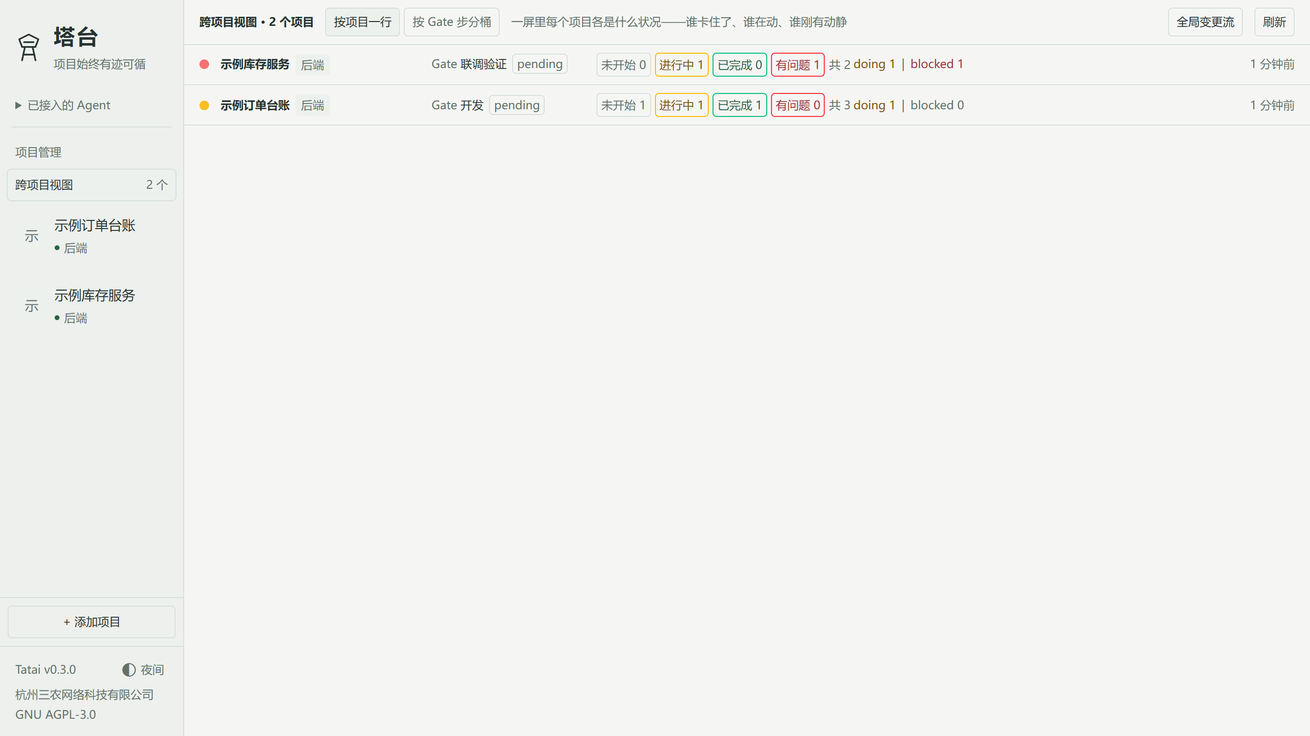
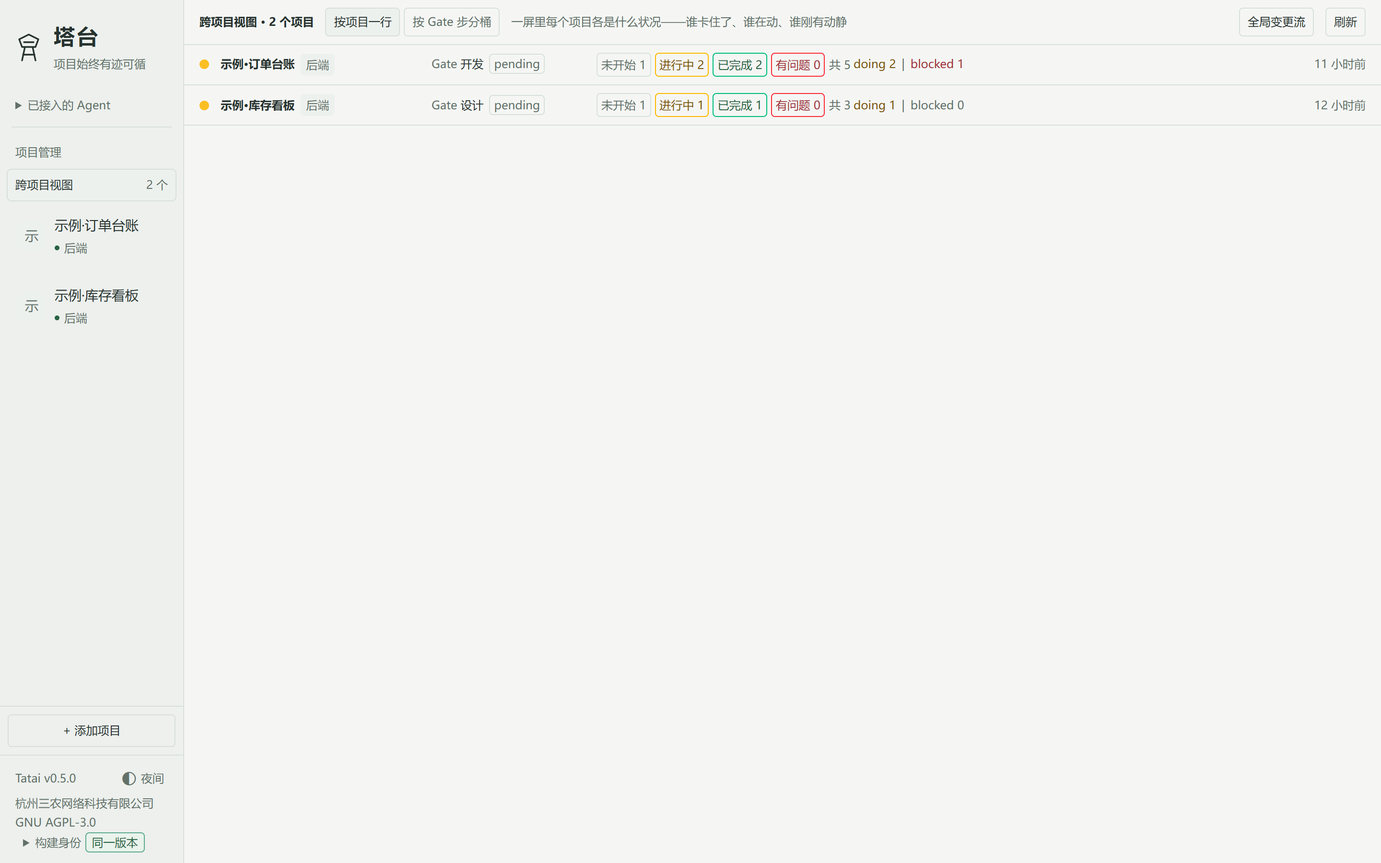
release: v0.5.0 公开文档与界面截图（运行诊断、工作区/交付候选隔离）
同步公开门面文档到 v0.5.0 口径：README、CHANGELOG、docs/capabilities、
docs/getting-started、docs/development、src-tauri/README 与
docs/releases/v0.5.0.md；并更新 4 张界面截图（2880×1800）。

仅文档与截图，无源码/配置/锁文件改动。

diff --git a/README.md b/README.md
@@ -14,35 +14,19 @@
 
 **快速导航**：[能力总览](#能力总览) ｜ [一个贯穿例子](#一个贯穿例子) ｜ [六张图分别看什么](#六张图分别看什么) ｜ [当前能力与边界](#当前能力与边界) ｜ [深入文档](#文档)
 
-## 0.4.0 更新（2026-10-09）
+## 0.5.0 更新（2026-10-13）
 
-本轮把人的**默认入口**换成**交付总览**，并补齐接续取材与提交前预检。逐条能力与如实限制见 [CHANGELOG.md](CHANGELOG.md) 的「0.4.0」条目；发布说明见 [docs/releases/v0.4.0.md](docs/releases/v0.4.0.md)。
+本轮新增**只读运行诊断页**（在**辅助入口「维护诊断」**组，不是默认入口）与**工作区／交付候选隔离**，并给接续与同步读取加了默认预算；交付总览顶部可切换读取**试用候选**或**开发中**版本。逐条能力与如实限制见 [CHANGELOG.md](CHANGELOG.md) 的「0.5.0」条目；发布说明见 [docs/releases/v0.5.0.md](docs/releases/v0.5.0.md)。
 
-- **交付总览（新默认入口）**：打开项目先看到的是**交付总览**——一页核对本期功能、需求依据、技术验证、非作者审查、未解决问题与运行版本；详细检查与证据按需展开。六图保留用于查结构与定位问题，**章节方块的颜色不再充当整项目交付结论**。只有完整功能范围核查、功能验证、独立审查与运行版本核对都具备当前有效证据，页面才显示「可以开始人工试用」；缺证据、范围未定、旧版本或读取失败会逐条点名。**技术就绪不等于你已经接受——塔台不代你签收验收。**
-- **接续更省、取材更准**：`task_brief` 紧凑简报（理由索引＋按版本补取细节，`detail=full` 保留完整）；阶段材料按任务**精确取材**（条目带 `purpose` 分类，设计引用带 `resolution`／`source_ref`，定位到**当前版本**的章节与行范围，认不出即 `unresolved`、不当已读）；同步有阻断时给**只读修复计划**。
-- **提交前只读预检**：新增 MCP `preflight_task_result`（与 `submit_task_result` 同形输入）——提交前一次列清可预判缺项与锁内未查项；**不写任何字节、不是门禁/通行票**，旧宿主明确 `unsupported`、**不回退**。
-- **功能清单（只读派生）**：设计书旁的人话功能清单与四维读数（设计覆盖／实现／验证／用户接受**分开显示**），绿只取验证读数；同一判据另有 HTTP／MCP 只读读口（`GET /api/projects/:id/feature-ledger`、MCP `feature_ledger`），**不另建第二张进度台账**。
-- **运行部件构建身份**：`GET /health`、`GET /api/work/health` 与 MCP `doctor` 读回 `build_identity`（`release_id`／`build_id`、输入指纹、偏斜对照）。**发布验收要求**：源码、随包后端、前端产物、桌面壳与安装器必须重建，并在受控安装后**实际读回**——安装运行实例报出的身份须与本次构建一致，**未安装不得写通过**。
-- **新增 3 个 MCP 工具（28 → 31）**：`task_brief`、`preflight_task_result`、`feature_ledger`。
-- **旧 MCP 连接需重连**：升级到 v0.4.0 后，要让**当前会话**用上新的接续逻辑与新增工具，需重连塔台 MCP；新启动的连接使用已更新的 `server/mcp.js`。
-- **如实限制**：本轮的**正式安装与人的可用性验收尚未进行**（token 对照未测）；下面 0.3.0 段的能力与实测限制仍然有效。
+- **运行诊断（只读）**：辅助入口「维护诊断」新增**只读运行诊断页**，用大白话看服务、队列、近期故障与实测耗时，缺项如实标「没测到」，可导出**脱敏报告**；主工作面只在有可行动异常时给一条提示。页面可见时每约 5 秒轻量监看，连接失败只做有上限的只读重连。**只读**：不自动重启服务、不改项目。Agent 用既有 `doctor` 的 `runtime` 段读同一份读数，**不新增工具名**。
+- **接续与同步读取默认 10 秒预算**：接续入口与同步只读读口默认 **10 秒**预算，读失败报明确原因、**不回退本地重算**，同一请求内共享账本快照、减少重复读盘。**如实限制**：开发版单笔接续仍约 **7.5 秒**；三笔重接续并发曾一次超 10 秒，尚未修复，**不宣称性能已全面解决**。
+- **工作区与交付候选隔离、本地 Git 收尾**：新增 MCP `manage_workspace`（统一管理项目工作目录与交付候选，`read`／`list` 只读、其余经唯一写口）与 `finalize_local_commit`（技术验证与独立审查通过后，把本次受验内容做**本地提交**，内容等于受验输入、不空提交、**不 `push`**、不代签接受）；交付总览顶部可切换读取**试用候选**或**开发中**版本。工具面 **31 → 33**。
+- **旧 MCP 连接需重连**：升级到 v0.5.0 后，要让**当前会话**用上新的接续逻辑与新增工具，需重连塔台 MCP；新启动的连接使用配置路径下已更新的 `server/mcp.js`。
+- **如实限制**：本版对本次公开安装包做的是**完整载荷解包 ＋ 隔离实跑**（解出包内 65 个文件，用隔离数据目录与随机端口实跑包内桌面壳、后端与 `server/mcp.js`），**不是运行安装器安装**。运行时身份 `release_id=3e663776…` 在 `/health`、MCP `doctor` 与界面身份面板三处一致（`same_release`），MCP 工具面 33（运行时断言 18/18 通过）、界面检查 17/17 通过。**这不是整体产品验收**，**用户验收（Gate）尚未进行**，结果以对应 Release 页为准。0.4.0 及更早版本的能力与实测限制见 [CHANGELOG.md](CHANGELOG.md)。
 
-## 未发布（main 源码已包含，尚未随安装包发布）
+## 历史更新
 
-> **最新正式 Release 仍是 [0.4.0](https://github.com/sannongwangluo/tatai/releases/latest)**。以下能力已进入 `main` 源码、**尚未随安装包公开发布**；作者已在本机按该源码构建、实际安装并读回运行版本核对，**用户验收尚未进行**。安装包版本以 Releases 为准，逐条限制见 [CHANGELOG.md](CHANGELOG.md) 的「未发布」条目。
-
-- **运行诊断**：辅助入口「维护诊断」新增只读运行诊断页，用大白话看服务、队列、近期故障与实测耗时，缺项如实标「没测到」，可导出**脱敏报告**；主工作面只在有可行动异常时给一条提示。页面可见时每约 5 秒轻量监看，连接失败只做有上限的只读重连。**只读**：不自动重启服务、不改项目。Agent 用既有 `doctor` 的 `runtime` 段读取，不新增工具名。
-- **接续与同步读取更稳**：接续入口与同步读取默认 **10 秒**预算，读失败报明确原因、不回退本地重算，减少重复读盘。如实限制：单笔接续仍约 7.5 秒，三笔重接续并发曾一次超时，尚未修复。
-- **工作区与交付候选隔离、本地 Git 收尾**：新增 MCP `manage_workspace`（统一管理项目工作目录与交付候选）与 `finalize_local_commit`（把受验内容本地提交，不 `push`、不代签验收）；交付总览顶部可切换读取试用候选或开发中版本。工具面 **31 → 33**。
-
-## 0.3.0 更新（2026-10-04）
-
-本轮统一了界面与品牌，把「接续」主链路提速，并补上按需取料。逐条问题、修复、实测限制与界面变化见 [CHANGELOG.md](CHANGELOG.md) 的「0.3.0」条目；发布说明见 [docs/releases/v0.3.0.md](docs/releases/v0.3.0.md)。
-
-- **界面与品牌统一**：采用线条小塔台作为唯一标志（界面标志、网页图标、EXE／安装包与桌面快捷方式同源生成）；默认**浅色**、左下角可切**夜间**并**本机记住**；项目图**先讲用途、关联和当前情况**，来源与技术详情按需展开，缺少的理由明确写「尚未记录」、不编造；选中方块可把对象与来源**带入可编辑聊天草稿**，由你确认后发送。保留**五主导航**与**六图**。
-- **按需接续与统一提速**：取接续时一次请求内共享同一份账本快照（不再重复读盘、不跨请求缓存旧绿）；只读重计算移到进程内有界工作池；文件读取做**内容校验 + 前缀增量**，不拿 size/mtime 当身份；界面合并同条件在途请求、切项目真正取消旧请求。实测中位改善与一项如实列出的变慢见更新日志。
-- **新增 6 个 MCP 工具（22 → 28）**：`report_execution`、`record_work_evidence`、`manage_baseline`（2026-10-02）与 `read_plan`（按卡／章节／行范围取施工图原文，免整本读取）、`expand_module`（深层结构下钻）、`project_index`（持久项目说明索引，需 Agent 维护，**不自动扫描全仓生成**）（2026-10-03）。
-- **旧 MCP 连接需重连**：升级到 v0.3.0 后，要让**当前会话**用上新的接续逻辑与新增工具，需重连塔台 MCP；新启动的连接使用已更新的 `server/mcp.js`。
+0.4.0（2026-10-09，交付总览与接续取材）与 0.3.0（2026-10-04，界面与品牌统一、统一提速）及更早版本的变化，见 [CHANGELOG.md](CHANGELOG.md) 与逐版本发布说明（[v0.4.0](docs/releases/v0.4.0.md)、[v0.3.0](docs/releases/v0.3.0.md)、[docs/releases/](docs/releases/)）。
 
 ## 它解决什么问题
 
@@ -100,13 +84,17 @@
 
 ## 界面一览
 
-下图为当前界面（**默认浅色**，左下角可切换**夜间**）：项目图先讲用途与当前情况，来源与技术详情按需展开、技术详情离线解析可下钻。
+下图为**当前界面**（**默认浅色**，左下角可切换**夜间**）：打开项目先看到**交付总览**，运行状态可在「维护诊断」的**运行诊断**页按需展开；项目图先讲用途与当前情况，来源与技术详情按需展开、技术详情离线解析可下钻。
+
+| 交付总览：一页核对本期功能、验证与运行版本 | 运行诊断：服务、队列、近期故障与实测耗时 |
+| --- | --- |
+| ![交付总览](docs/screenshots/03-delivery-overview.png) | ![运行诊断](docs/screenshots/04-runtime-diagnostics.png) |
 
 | 跨项目视图：一屏看清每个项目卡在哪 | 技术详情·模块方框图：离线静态解析，可下钻 |
 | --- | --- |
 | ![跨项目视图](docs/screenshots/01-cross-project-view.png) | ![模块方框图](docs/screenshots/02-module-map.png) |
 
-> 截图为**虚构示例项目**（界面数据来自隔离的临时夹具目录与临时数据目录，无任何真实项目数据）。
+> 截图为**虚构示例项目**：界面数据来自隔离的临时夹具目录与临时数据目录，**无任何真实项目数据**。其中**交付总览（03）的功能清单读数为用于演示的示例（替身）响应**；**跨项目视图（01）、模块方框图（02）、运行诊断（04）为隔离环境下的真实运行读数**。截图仅用于展示界面，**不构成生产验收**。
 
 ## 下载与安装（Windows）
 
@@ -121,9 +109,9 @@
 ### 升级
 
 - 塔台没有自动更新：装新版就是从 Releases 下一个新包覆盖安装。覆盖安装与卸载都不删用户数据（数据不在安装目录里，安装目录运行期只读）。
-- 升级前请正常退出塔台（关闭窗口即会带走它启动的后端并释放 8787 端口）；若安装器仍提示进程占用，再按排错确认残留，不要无差别结束 node 进程。
+- 升级前请**正常退出**塔台。正常关窗通常会回收它启动的后端并释放 8787 端口，但**桌面壳进程本身可能滞留不退**（本版隔离实测：后端已回收、端口已释放，壳窗口 15 秒内未退出），请以实际状态为准。若安装器仍提示进程占用，先按排错确认是否有残留，再确认后处理；**不要无差别结束 node 进程**（别的 Agent 客户端可能正用着它），若需强制处理只结束该滞留壳及其自有后端子树。
 - 升级前建议先备份两处：全局数据目录（`~/.tatai` 或你的 `TATAI_HOME`）与每个被纳管项目根下的 `.工作台/`。
-- 本次升级的安装与数据保留实测状态，以对应 Release 说明为准（不预填未生成的哈希）。
+- 本次升级的安装与数据保留实测状态，以对应 Release 说明为准。
 
 ## 第一次使用
 
@@ -137,9 +125,9 @@
 
 ## 让 Agent 接进来（MCP）
 
-以下 31 个工具对应当前 v0.4.0。
+以下 33 个工具对应当前 v0.5.0。
 
-- 31 个 stdio MCP 工具：项目接续（`list_projects`／`select_project`／`project_entry`／`task_brief`／`doctor`）、任务与进度、认领与回执（含**只读预检** `preflight_task_result`）、设计书与图纸、施工图与结构（`read_plan`／`expand_module`／`project_index`）、需求／变更、同步证据对账（`register_sync_contract`／`scan_sync_evidence`／`read_sync_status`）、功能清单（`feature_ledger`）等。计数以 `src/mcp/tools/index.ts` 的注册表为唯一来源（`pnpm verify:v09-05` 对账，文档计数与注册表恒等）；完整清单见 [docs/capabilities.md](docs/capabilities.md)。
+- 33 个 stdio MCP 工具：项目接续（`list_projects`／`select_project`／`project_entry`／`task_brief`／`doctor`）、任务与进度、认领与回执（含**只读预检** `preflight_task_result`）、设计书与图纸、施工图与结构（`read_plan`／`expand_module`／`project_index`）、需求／变更、同步证据对账（`register_sync_contract`／`scan_sync_evidence`／`read_sync_status`）、功能清单（`feature_ledger`）、工作区与交付候选（`manage_workspace`）、本地 Git 收尾（`finalize_local_commit`）等。计数以 `src/mcp/tools/index.ts` 的注册表为唯一来源（`pnpm verify:v09-05` 对账，文档计数与注册表恒等）；完整清单见 [docs/capabilities.md](docs/capabilities.md)。
 - **已经运行中的 MCP 连接保留旧内存代码**：更新程序后，要让**当前会话**用上新的接续逻辑与新增工具，需重连塔台 MCP；新启动的连接使用配置路径下已更新的 `server/mcp.js`。
 - 桌面壳装好后，MCP 入口就是安装目录下的 `server/mcp.js`，例如 `C:/Users/<用户名>/AppData/Local/Tatai/server/mcp.js`。`%LOCALAPPDATA%` 这类变量不会被自动展开，配置里必须写实际绝对路径。
 - 从源码跑时先 `pnpm build:server`，再用产物的绝对路径；不要依赖 `node --import tsx …` 这种要客户端 cwd 才解析得开的写法。完整示例见 [docs/getting-started.md](docs/getting-started.md) 第 5 节与 [docs/agent-integration.md](docs/agent-integration.md)。
@@ -156,7 +144,7 @@
 
 ## 当前能力与边界
 
-**已经能用**：项目登记与跨项目概览；**浅色／夜间两套外观**（本机记住）与线条小塔台品牌，选中方块可把对象与来源带入可编辑聊天草稿；人工确认的七步 Gate 与 Agent 自报任务；六图（功能全景／系统架构／施工依赖／模块方框图／数据流向图／思维导图）与下钻；设计书展示与追加落稿；**施工图按卡/章节/行范围原读取材**（`read_plan`）与**深层结构下钻**（`expand_module`）；**持久项目说明索引**（`project_index`，职责/接口/来源/关系/影响覆盖，声明关系不冒充验证事实）；内置 AI 聊天；任务认领与执行回执；**私有事实**（`.工作台/`）的显式**备份**与**隔离目录**恢复——恢复只落在隔离目录并逐项核验，塔台**不会自动替换**你当前的数据；MCP 接续入口。
+**已经能用**：项目登记与跨项目概览；**浅色／夜间两套外观**（本机记住）与线条小塔台品牌，选中方块可把对象与来源带入可编辑聊天草稿；人工确认的七步 Gate 与 Agent 自报任务；六图（功能全景／系统架构／施工依赖／模块方框图／数据流向图／思维导图）与下钻；设计书展示与追加落稿；**施工图按卡/章节/行范围原读取材**（`read_plan`）与**深层结构下钻**（`expand_module`）；**持久项目说明索引**（`project_index`，职责/接口/来源/关系/影响覆盖，声明关系不冒充验证事实）；内置 AI 聊天；任务认领与执行回执；**私有事实**（`.工作台/`）的显式**备份**与**隔离目录**恢复——恢复只落在隔离目录并逐项核验，塔台**不会自动替换**你当前的数据；MCP 接续入口；**只读运行诊断页**（服务/队列/近期故障/实测耗时，缺项标「没测到」，可导出**脱敏报告**）与**工作区／交付候选隔离**（`manage_workspace` 管理项目工作目录与候选，`finalize_local_commit` 受验内容本地提交、不 `push`；交付总览可切换读**试用候选**或**开发中**版本）。
 
 **统一优化（2026-10-03，随 v0.3.0 发布）**：**按需接续与缓存 worker**——接续入口在一次请求内共享同一份账本快照与派生事实（不再重复读盘、不跨请求缓存旧绿）；只读重计算挪到**进程内有界工作线程池**（含**内容校验的解析缓存**），唯一写入宿主承担写；文件读取做**内容校验 + 前缀增量**（同长度改写/保留 mtime/截断/中段坏行均能识别，不拿 size/mtime 当身份）；界面**合并同条件在途只读请求、切项目真正取消旧请求**，并显示明确新鲜度与失败原因。**已经运行中的 MCP 连接保留旧内存代码，需重连才生效**（见上一节）。
 
@@ -169,6 +157,7 @@
 - 认领 token 与角色声明不是文件系统锁，读到材料也不等于模型理解；目录隔离与进程终止仍由协调器负责。
 - 同步对账只就**已登记范围**下结论，只有配置了 `blocks_entry` 的未通过批次才阻断接续；同步通过不代表业务实现、独立审计或你的验收。
 - 取齐六图不代表读遍全部源码，也不代表业务验收。
+- 性能未全面解决：开发版单笔接续仍约 **7.5 秒**、三笔重接续并发曾一次超 10 秒（原样保留）；**不承诺普适的快速响应**。
 - 安装包只出 Windows；WebView2 与 node 不随包；远程访问默认关闭、不提供“允许公网”开关；没有自动更新。
 
 逐条能力、六图与数据流向图口径、远程访问细节、AI 与隐私边界、已知限制见 [docs/capabilities.md](docs/capabilities.md)。
@@ -188,8 +177,8 @@
 | [docs/capabilities.md](docs/capabilities.md) | 当前能力、六图口径、AI 与隐私边界、远程访问、已知限制 |
 | [docs/agent-integration.md](docs/agent-integration.md) | 外部执行接入：谁启动/终止 Agent 进程、认领与回执协议、MCP 读口的同源边界 |
 | [docs/sync-evidence-contract.md](docs/sync-evidence-contract.md) | 同步证据对账契约：登记「应同步清单」、逐项实读核对、阻断与自动解阻 |
-| [CHANGELOG.md](CHANGELOG.md) | 版本变更记录（当前 0.4.0，2026-10-09） |
-| [docs/releases/](docs/releases/) | 逐版本发布说明（当前 [v0.4.0](docs/releases/v0.4.0.md)） |
+| [CHANGELOG.md](CHANGELOG.md) | 版本变更记录（当前 0.5.0，2026-10-13） |
+| [docs/releases/](docs/releases/) | 逐版本发布说明（当前 [v0.5.0](docs/releases/v0.5.0.md)） |
 | [GitHub Releases](https://github.com/sannongwangluo/tatai/releases) | 发布说明与安装包；产品版本口径以此为准 |
 | `DESIGN.md` / `PLAN.md` / `PROGRESS.md` | 设计依据 / 施工图与验收标准 DoD / 施工流水 |
 | [CONTRIBUTING.md](CONTRIBUTING.md)、[SECURITY.md](SECURITY.md) | 如何反馈问题与提交改动；安全漏洞的私密报告渠道 |

diff --git a/docs/releases/v0.5.0.md b/docs/releases/v0.5.0.md
@@ -1,0 +1,98 @@
+# 塔台（Tatai）v0.5.0 —— 发布说明（2026-10-13）
+
+> 本页是 v0.5.0 的发布说明。**公开发布的安装包体积与 sha256** 见下方「发布资产」表，与 [Releases](https://github.com/sannongwangluo/tatai/releases/tag/v0.5.0) 对应页一致；本页的**运行时身份读回**来自对公开包的**载荷解包 ＋ 隔离实跑**（**未运行安装器**）；**安装器流程与 CI 记录**以该 Release 页登记的实测记录为准。
+>
+> 面向用户的变化见 [`../../CHANGELOG.md`](../../CHANGELOG.md)。
+
+塔台 v0.5.0（2026-10-13）—— **运行诊断与工作区／交付候选隔离版**。**相比 v0.4.0 有功能性新增、接口面变化；界面结构与数据格式向后兼容。**
+
+## 新增了什么（以下均已交付代码与服务）
+
+### 1. 运行诊断页与运行健康只读读口（V09-69、V09-70）
+
+- 辅助入口「维护诊断」组新增**只读运行诊断页**：用大白话看服务、队列、近期故障与实测耗时，缺项如实标「没测到」、不编数，可导出**脱敏报告**；主工作面只在有可行动异常时给**一条**运行提示。
+- 页面可见时**每约 5 秒**轻量监看，连接失败只做**有上限的只读重连**（成功即停本轮重试、恢复正常监看），切项目中止旧回包。
+- **只读**：不自动重启后端、不拉起写服务、不改代码/账本、不放松门禁，导出与「重试」同样只读。读失败语义如实——超时不等于服务已死，失败把当前状态落「未知」、**不用上一次的绿代替**。
+- Agent 侧**不新增工具名**：既有 `doctor` 默认附 `runtime` 段（读宿主同一只读读口、不本地重算），`runtime_only:true` 只取轻量运行诊断，不启动服务、不触发自愈。运行健康与交付验收**分开**。
+
+### 2. 接续与同步读取默认 10 秒预算（V09-37 返工收敛）
+
+- 接续入口与同步只读读口默认 **10 秒**预算；同一请求内共享同一份账本快照与派生事实、减少重复读盘，文件观测收敛到逐清单剩余预算内。
+- 对成功但非法／不完整的响应报明确读失败、**不回退本地重算**。
+- **如实限制**：这是预算与去重，不是「性能全面解决」——开发版单笔接续仍约 **7.5 秒**、稳定 p95 未证明；三笔重接续并发曾出现一次 10 秒超时，该失败**原样保留**，不能把单笔场景通过说成并发已修复。
+
+### 3. 工作区与交付候选隔离、本地 Git 收尾（V09-63…V09-67）
+
+- 新增 MCP `manage_workspace`：项目工作目录与交付候选的**统一入口**（`read`／`list` 只读，其余操作经唯一写口；主开发目录由 `<project>:main` 派生、不重复保存）。写口语义上拒绝错目标与对冻结候选的改写（**语义校验，不冒充 OS 沙箱**）。同一判据 HTTP 读口：`GET /api/projects/:id/workspaces`。
+- 交付候选可**冻结并绑定构建输入身份**（复用 §6.10 的能力，不另算），试用提升由宿主**实测真实产物**后判定；回收后能从提交/既有保管处还原的不判失效。
+- 新增 MCP `finalize_local_commit`：技术验证与独立审查通过、且持有有效任务授权时，由**唯一宿主**把**本次受验内容**做**本地提交**——内容等于受验输入、不空提交、**不 `push`**、不代签用户接受。请求**不得自带**授权/通过布尔。
+
+### 4. 交付总览的版本一致与集成/审查读数（V09-62 扩展、V09-68）
+
+- 交付总览顶部可切换「读哪个版本」：**当前试用候选**或**开发中**；本批受影响证据可按候选版本续验。
+- `feature_ledger.delivery`（含 `integration` 组合流程验证）与逐项 `agent_review` 为**同源只读扩展**；旧宿主缺字段应报未知，不拿其它绿状态代替，**不新增完成台账**。
+- 实现读数修正：缺登记与部分提交**不误报**「未实现／未开始」。
+
+## 变更
+
+- **MCP 工具面 31 → 33**：本版新增 `manage_workspace`（V09-63）、`finalize_local_commit`（V09-66）。计数以 `src/mcp/tools/index.ts` 注册表为唯一来源（`pnpm verify:v09-05` 对账，文档计数与注册表恒等）。
+- **旧 MCP 连接需重连**：升级到 v0.5.0 后，要让**当前会话**用上新的接续逻辑与新增工具，需重连塔台 MCP；新启动的连接使用已更新的 `server/mcp.js`，运行中的旧 MCP 进程保留旧内存代码。
+
+## 发布资产（Windows x64）
+
+- **源码身份**：公开仓 `sannongwangluo/tatai` 源码 **HEAD `0f4a8e95`**（2026-10-13 公开源码快照）。随后仅追加文档与截图提交，**不进入构建输入、不改变构建身份**。
[1 lines of base64/hex data omitted]
+- 两枚安装包的体积与 sha256（与 Release 页登记的资产一致，可下载后自行复核）：
+
+| 资产 | 字节数 | SHA256 | 直链 |
+| --- | ---: | --- | --- |
[2 lines of base64/hex data omitted]
+
+- 两枚安装包内 `server/THIRD-PARTY-NOTICES.txt`（9,660 B，`sha256 a0854a8f…`）含「塔台自身许可：GNU AGPL-3.0」；两包均已解包核对（NSIS 载荷 65 文件、MSI 载荷 59 文件，包内主 exe `FileVersion`/`ProductVersion` 均为 `0.5.0`）。
+
+## 安装（Windows x64）
+
+前置条件与三步安装、两种安装包的差异、升级与卸载注意事项，见 [`../getting-started.md`](../getting-started.md)。
+
+- 安装包命名沿用 `Tatai_<版本>_x64-setup.exe`（NSIS，推荐）与 `Tatai_<版本>_x64_en-US.msi`（MSI）；v0.5.0 对应 `Tatai_0.5.0_x64-setup.exe` 与 `Tatai_0.5.0_x64_en-US.msi`，体积与 sha256 见上「发布资产」，与 Release 页登记的资产一致。
+
+## 升级建议（从旧版覆盖安装）
+
+- 装新版＝从 [Releases](https://github.com/sannongwangluo/tatai/releases) 下一个新包**覆盖安装**，没有自动更新。
+- **升级前先正常退出塔台**：正常关窗通常会回收它启动的后端并释放 8787 端口，但**桌面壳进程本身可能滞留不退**（本版隔离实测：后端已回收、端口已释放，壳窗口 15 秒内未退出），请以**实际状态**为准。若安装器仍提示进程占用，先核实是否有残留（或该端口被别的进程占着），确认后再继续，**不要无差别结束 node 进程**（别的 Agent 客户端可能正用着它）；若需强制处理，只结束该滞留壳及其自有后端子树（不误杀其他 Agent 客户端，已核实）。
+- **升级前建议先备份两处**：全局数据目录（`~/.tatai` 或你的 `TATAI_HOME`）与每个被纳管项目根下的 `.工作台/`。覆盖安装与卸载都**不删用户数据**（数据不在安装目录里，安装目录运行期只读）。
+- **旧 MCP 连接需重连**（见上「变更」）：升级后当前会话要用上新工具，需重连塔台 MCP。
+- 本版**未变更锁文件**（`pnpm-lock.yaml` 未动）。
+
+## 本版源码与安装包的对应关系（核验记录）
+
+- **源码内容**：本版对应公开仓 **HEAD `0f4a8e95`** 的源码快照（本次发布前冻结、经导出规程同步到公开仓）；其后的文档／截图提交**不进入构建输入**，不改变构建身份。公开仓提交／tag 以该 Release 页登记为准。
+- 构建戳的源码内容指纹与文件数、两枚安装包的 sha256 与体积见上「发布资产」。
+- **公开包运行时身份读回（如实）**：对本次公开安装包（NSIS）做**完整载荷解包**（65 个文件、运行期只读自校验一致），在**隔离数据目录与随机端口**下**实跑包内桌面壳、后端与 `server/mcp.js`**（**未运行安装器**）：`/health`、MCP `doctor(runtime_only)` 与真实界面身份面板三处的 `release_id` 一致为 `3e663776…`、偏斜 `same_release`；MCP 工具面 33（运行时断言 18/18 通过）、界面检查 17/17 通过；全程未动生产实例与真实数据目录。**这只证明公开包载荷的运行时身份与基本读取，不等于运行过安装器、也不等于整体产品验收。**
+
+## 版本口径
+
+版本串（`package.json` / `src-tauri/tauri.conf.json` / `src-tauri/Cargo.toml` / `src-tauri/Cargo.lock` 根包 / MCP 握手 / 界面页脚）本版统一为 **0.5.0**；运行时版本取自单一来源 `src/shared/version.ts`（构建期内联，产物运行时不读文件），各处一致性由 `scripts/verify-version-consistency.ts` 对账。
+
+## 尚未实际验证的事项（如实列出）
+
+- **用户验收（Gate）尚未进行**：本版**功能候选**已完成 **20/20 技术验证**与 **20/20 非作者独立审查**（交付读数 `delivery=ready_for_trial`）。**用户本人的接受 Gate 仍待签**，这是产品侧步骤，**不属发布阻断项**。
+- **本轮未运行安装器**：完成的是公开包的**载荷解包 ＋ 隔离实跑 ＋ 身份读回**（见「核验记录」），**未安装、未改本机试用指针**；安装器流程与未来 CI 以对应 Release 页登记为准。
+- **界面、候选代码的技术验证以源码与隔离夹具为准**；完整 token 对照按「未测」登记，人的体验验收未做。
+- **性能未全面解决**：单笔接续仍约 **7.5 秒**、稳定 p95 未证明；三笔重接续并发曾一次 10 秒超时（原样保留）。**桌面壳正常关闭后壳进程本身可能滞留不退**（本版隔离实测：后端已回收、端口已释放，壳 15 秒内未退出），**未宣称已修复**。
+- **提交执行结果 ≠ 独立审计通过 ≠ 用户验收**：`PLAN.md` 卡行为文档投影，工程运行事实以 v2 事件账本为准。
+
+## 从源码构建
+
+```
+pnpm install
+pnpm build:server
+pnpm tauri:build   # 产物在 src-tauri/target/release/bundle/
+```
+
+完整开发口径见 [`../development.md`](../development.md) 与 [`../../src-tauri/README.md`](../../src-tauri/README.md)。
+
+---
+
+License：GNU AGPL-3.0（可自由使用、修改与分发；衍生作品与基于它提供的网络服务须以同协议开源）· Copyright (c) 2026 杭州三农网络科技有限公司

diff --git a/docs/capabilities.md b/docs/capabilities.md
@@ -19,9 +19,9 @@
 - **证据分段失效**：改一份文档只重验受影响的对象（单卡／章节粒度），不再"动一行、全图重验"。
 - 设计书展示与显式追加落稿、内置 AI 项目聊天（模型服务可配置）、概念图补全、逆向设计草稿。
 - 流程实况、文件变更、终端与 Tauri 桌面壳。终端仍在当前软件中，已移出用户主导航、收进辅助入口的「维护诊断」。
-- **运行诊断（新增）**：辅助入口「维护诊断」组新增**只读运行诊断页**（与终端并列、不抢主导航），用大白话看服务、队列、近期故障与实测耗时，缺项如实写「没测到」、不编数，可导出**脱敏报告**；主工作面只在有可行动异常时显示一条运行提示。页面可见时每约 5 秒轻量监看，连接失败只做有上限的只读重连。**运行健康与交付验收分开**；**只读**：不自动重启后端、不拉起写服务、不改代码/账本、不放松门禁，导出与「重试」同样只读。读失败语义如实：超时不等于服务已死，读失败把当前状态落「未知」、不用上一次的绿代替。Agent 侧**不新增工具名**：既有 `doctor` 默认附 `runtime` 段（读宿主只读读口、不本地重算），`runtime_only:true` 只取轻量运行诊断。
-- **接续 / 同步读预算（新增）**：接续入口与同步只读读口默认 **10 秒**预算；同一请求内共享同一份账本快照与派生事实、减少重复读盘，文件观测收敛到逐清单剩余预算内；对成功但非法/不完整的响应报明确读失败、**不回退本地重算**。
-- **工作区与交付候选隔离、本地 Git 收尾（新增）**：MCP `manage_workspace` 是项目工作目录与交付候选的**统一入口**（`read`/`list` 只读，其余操作经唯一写口）；交付总览顶部「读哪个版本」可选**当前试用候选**或「开发中」。`finalize_local_commit` 在技术验证与独立审查通过后，把**本次受验内容**做**本地提交**（等于受验输入、不空提交、**不 `push`**、不代签接受）。同一判据 HTTP 读口：`GET /api/projects/:id/workspaces`。
+- **运行诊断（v0.5.0）**：辅助入口「维护诊断」组新增**只读运行诊断页**（与终端并列、不抢主导航），用大白话看服务、队列、近期故障与实测耗时，缺项如实写「没测到」、不编数，可导出**脱敏报告**；主工作面只在有可行动异常时显示一条运行提示。页面可见时每约 5 秒轻量监看，连接失败只做有上限的只读重连。**运行健康与交付验收分开**；**只读**：不自动重启后端、不拉起写服务、不改代码/账本、不放松门禁，导出与「重试」同样只读。读失败语义如实：超时不等于服务已死，读失败把当前状态落「未知」、不用上一次的绿代替。Agent 侧**不新增工具名**：既有 `doctor` 默认附 `runtime` 段（读宿主只读读口、不本地重算），`runtime_only:true` 只取轻量运行诊断。
+- **接续 / 同步读预算（v0.5.0）**：接续入口与同步只读读口默认 **10 秒**预算；同一请求内共享同一份账本快照与派生事实、减少重复读盘，文件观测收敛到逐清单剩余预算内；对成功但非法/不完整的响应报明确读失败、**不回退本地重算**。
+- **工作区与交付候选隔离、本地 Git 收尾（v0.5.0）**：MCP `manage_workspace` 是项目工作目录与交付候选的**统一入口**（`read`/`list` 只读，其余操作经唯一写口）；交付总览顶部「读哪个版本」可选**当前试用候选**或「开发中」。`finalize_local_commit` 在技术验证与独立审查通过后，把**本次受验内容**做**本地提交**（等于受验输入、不空提交、**不 `push`**、不代签接受）。同一判据 HTTP 读口：`GET /api/projects/:id/workspaces`。
 - **Agent 任务认领与执行回执**：认领有 token 门禁，心跳/检查点/交付/效果确认经唯一写入服务落 v2 事件流；断线期间执行端在本地保留待提交回执并暂停领取新写任务，恢复后按原幂等键补交，不重复生效。
 - **正向成套图纸入口与上报链**：已有 DESIGN/PLAN 可直接保存并做**技术审定激活**（零差异即可，不要求模型生成）；Agent 的阶段、执行回执、成果、证据与自检/独立审计都有正式 MCP 入口，重试幂等；用于「已验证」的检查绑定服务端实际读取的**有限源码清单**，被覆盖文件变化、删除或不可读即失效或转待复核。
 - **用量统计**：项目概览显示任务认领额度（运营节流，不是费用或成本硬限）与事件可配对的执行耗时；Token 与金额没有可核对来源，显式标「未计量」。
@@ -30,7 +30,7 @@
 
 ### 1.1 MCP 工具面
 
-一个 MCP 接口接入所有 Agent，走 **stdio**（Agent 客户端主动拉起）。工具数以 `src/mcp/tools/index.ts` 的注册表为唯一来源（`pnpm verify:v09-05` 对账）。v0.4.0 共 31 个；`main` 源码另增 `manage_workspace`、`finalize_local_commit`，共 33 个（尚未随安装包发布）：
+一个 MCP 接口接入所有 Agent，走 **stdio**（Agent 客户端主动拉起）。工具数以 `src/mcp/tools/index.ts` 的注册表为唯一来源（`pnpm verify:v09-05` 对账）。v0.5.0 共 **33** 个：
 
 | 类别 | 工具 |
 | --- | --- |
@@ -101,10 +101,10 @@ TATAI_REMOTE=1 TATAI_HOST="<局域网 IP>" TATAI_REMOTE_WRITE=1 TATAI_REMOTE_WRI
 - **远程只读、默认关闭**，不提供"允许公网"的开关（局域网通配绑定另有一个**默认拒绝**的显式环境变量逃生口，见上一节）。
 - **没有完整的自动接续与闭环**：当前不具备本链路的完整自动接续、图纸派生与审计证据闭环；中大型/超大型支持须经自举、故障与规模验证。本机单用户优先。
 - **性能只是有条件样本**：2026-10-03 统一优化的读数是**一份冻结的真实项目镜像**（约 2146 文件、约 53 MB 事件账本、9200 事件、44 批次）上每种链路 30 个暖样本的中位值——真实 MCP 完整接续 p50 约 4709 ms → 1333 ms（约 3.5×），直接接续入口 p50 约 2736 ms → 872 ms（约 3.1×），六图摘要 p50 约 417 ms → 263 ms（约 1.6×）。这是该镜像/该现场下的**有条件样本结论，不是普适倍数、也不是「全链路秒回」**：完整同步报告与新增证据写入仍有百毫秒级尖峰，拟议的暖界面 300 ms／轻接续 1 s／小证据 2 s 目标未全面达标；**另有一项如实列出变慢**——扫描幂等单次约 3159 ms → 3588 ms，新增证据场景约 5309 ms → 5009 ms（小幅改善）；换项目规模与负载读数会不同。
-- **接续延迟与并发限制（新增，如实）**：`main` 源码已把接续入口与同步读预算设为 **10 秒**并减少重复读盘，但**性能未全面解决**——开发版单笔接续仍约 **7.5 s**、稳定 p95 未证明；三笔重接续并发曾出现一次 10 秒超时，该失败原样保留，不能把单笔场景通过说成并发已修复。后续性能工作的启动条件是「多 Agent 并发，或用户仍无法接受该延迟」。
-- **已经运行中的 MCP 连接保留旧内存代码**：升级到 v0.4.0 后，要让**当前会话**用上新的接续逻辑与新增工具（`task_brief`／`preflight_task_result`／`feature_ledger`），需重连塔台 MCP；新启动的连接使用配置路径下已更新的 `server/mcp.js`。程序更新完成不等于旧客户端内存已更新。
+- **接续延迟与并发限制（如实）**：本版（v0.5.0）把接续入口与同步读预算设为 **10 秒**并减少重复读盘，但**性能未全面解决**——开发版单笔接续仍约 **7.5 s**、稳定 p95 未证明；三笔重接续并发曾出现一次 10 秒超时，该失败原样保留，不能把单笔场景通过说成并发已修复。后续性能工作的启动条件是「多 Agent 并发，或用户仍无法接受该延迟」。
+- **已经运行中的 MCP 连接保留旧内存代码**：升级到 v0.5.0 后，要让**当前会话**用上新的接续逻辑与新增工具（`manage_workspace`／`finalize_local_commit` 等），需重连塔台 MCP；新启动的连接使用配置路径下已更新的 `server/mcp.js`。程序更新完成不等于旧客户端内存已更新。
 - **不会替你执行或验收**：塔台管理协作事实与执行请求，**不启动/终止 Agent 进程**（外部协调器负责），**不代替用户点 Gate**。MCP 提供工具不等于客户端必然主动调用；只读客户端按能力如实声明。
-- **桌面壳退出的进程树收口**：壳正常关闭或强制结束时，由它启动/接管的后端子树会退出并释放端口（尤其 8787），且**只终止本壳的后端**、不误杀其他 Agent 客户端。**如实限制**：Job 建不出来时退回 `taskkill` 兜底（壳打告警，强杀仍可能留孤儿）；端口被**别的进程**占用时不自动杀占用者（弹窗说明＋给处置命令）。细口径见 [`../src-tauri/README.md`](../src-tauri/README.md)「进程树收口」。
+- **桌面壳退出的进程树收口**：壳正常关闭或强制结束时，由它启动/接管的后端子树会退出并释放端口（尤其 8787），且**只终止本壳的后端**、不误杀其他 Agent 客户端。**如实限制**：Job 建不出来时退回 `taskkill` 兜底（壳打告警，强杀仍可能留孤儿）；端口被**别的进程**占用时不自动杀占用者（弹窗说明＋给处置命令）；**桌面壳正常关闭后壳进程本身可能滞留不退**（本版隔离实测：后端已回收、端口已释放，壳进程 15 秒内未退出），该项如实记录、**未宣称已修复**。细口径见 [`../src-tauri/README.md`](../src-tauri/README.md)「进程树收口」。
 
 ## 6. 设计与施工方向
 

diff --git a/CHANGELOG.md b/CHANGELOG.md
@@ -5,20 +5,21 @@
 - **产品版本口径以 [GitHub Releases](https://github.com/sannongwangluo/tatai/releases) 为准**；本文件不另存发布说明全文。
 - **提交执行结果 ≠ 独立审计通过 ≠ 用户验收**：标 `已交付` 只表示代码/服务已落地，不等于已审计、已验收。
 
-## [未发布] —— main 源码已包含（尚未随安装包发布）
+## [0.5.0] —— 2026-10-13
 
-> 状态：以下能力已进入 `main` 源码，**尚未随任何安装包公开发布**（最新正式 Release 仍是 0.4.0）；作者已在本机按该源码构建、实际安装并读回运行版本核对，**用户验收尚未进行**。安装包、构建戳与 sha256 以 [GitHub Releases](https://github.com/sannongwangluo/tatai/releases) 为准。
+> 状态：v0.5.0（2026-10-13）。安装包体积与 sha256 见 [GitHub Releases](https://github.com/sannongwangluo/tatai/releases) 对应页与 [`docs/releases/v0.5.0.md`](docs/releases/v0.5.0.md)。下面列出的能力与修复**已交付**（本版源码）。本版**功能候选**已完成 **20/20 技术验证**与 **20/20 非作者独立审查**（交付读数 `delivery=ready_for_trial`）；**用户验收（Gate）尚未进行**，且**不属发布阻断项**。本次已对**公开安装包**做**载荷解包 ＋ 隔离实跑**与运行时身份读回（**未运行安装器安装**）；结果以 Release 页为准。**提交执行结果 ≠ 独立审计通过 ≠ 用户验收。**
 
 ### 新增与修复
 
 - **运行诊断页与轻量提示**：辅助入口新增**只读运行诊断页**，用大白话看服务、队列、近期故障与实测耗时，缺项如实标「没测到」，可导出**脱敏报告**；主工作面只在有可行动异常时给一条提示。**只读**：不自动重启后端、不拉起写服务、不改代码/账本、不放松门禁。Agent 侧不新增工具名，既有 `doctor` 默认附 `runtime` 段（`runtime_only:true` 为轻量模式）。
 - **接续 / 同步读预算 10 秒**：接续入口与同步读取默认 **10 秒**预算，对非法/不完整的响应报明确读失败、**不回退本地重算**，同一请求内共享账本快照、减少重复读盘。
 - **工作区与交付候选隔离、本地 Git 收尾**：新增 MCP `manage_workspace`（统一管理项目工作目录与交付候选）与 `finalize_local_commit`（把受验内容做**本地提交**，不空提交、**不 `push`**、不代签用户接受）；交付总览顶部可切换读取试用候选或开发中版本。MCP 工具面 **31 → 33**。
+- **旧 MCP 连接需重连**：升级到 v0.5.0 后，要让**当前会话**用上新的接续逻辑与新增工具（`manage_workspace`／`finalize_local_commit` 等），需重连塔台 MCP；新启动的连接使用配置路径下已更新的 `server/mcp.js`。
 
 ### 如实限制
 
-- **尚未公开发布新安装包**：作者本机已实际安装并读回运行版本核对，**用户验收尚未进行**。
-- **性能未全面解决**：开发版单笔接续仍约 **7.5 s**、稳定 p95 未证明；三笔重接续并发曾出现一次 10 秒超时，该失败原样保留，**不能把单笔场景通过说成并发已修复**。桌面壳优雅退出新版未做停机回归、不宣称已修；其它限制沿用 0.4.0 及更早条目。
+- **用户验收尚未进行**：本版功能候选已完成 20/20 技术验证与 20/20 非作者独立审查（交付读数 `delivery=ready_for_trial`）；**用户本人的接受 Gate 尚未签**，且不属发布阻断项。本次已对**公开安装包**做**载荷解包 ＋ 隔离实跑**与运行时身份读回（**未运行安装器安装**），这不等于整体产品验收。
+- **性能未全面解决**：开发版单笔接续仍约 **7.5 s**、稳定 p95 未证明；三笔重接续并发曾出现一次 10 秒超时，该失败原样保留，**不能把单笔场景通过说成并发已修复**。**桌面壳正常关闭后壳进程本身可能滞留不退**（本版隔离实测：后端已回收、端口已释放，但壳 15 秒内未退出），**未宣称已修复**；其它限制沿用 0.4.0 及更早条目。
 
 ## [0.4.0] —— 2026-10-09
 

diff --git a/docs/development.md b/docs/development.md
@@ -113,6 +113,7 @@ pnpm tauri:build   # 一条命令打安装包 → src-tauri/target/release/bundl
 | `pnpm verify:v06-02` | 两份图纸的版本与审定（含塔台自身 PLAN 的行数点名断言；沿革见脚本内） |
 | `pnpm verify:v09-50` | 2026-10-06 V09-50 源码依赖采集热路径等价优化：真实绑定下 import 收集走原生 tree-sitter query（非静默回退）；合成夹具逐文件 `FileImports{targets,loc,skip}` 与**手工推导期望**一致；"只扫顶层语句"的**红反例**；`too_large`/`unreadable` 两态分账；**故障注入回退**四种情况都**丢弃半结果、完整回退旧全树 DFS**。**默认自包含**（临时件落 `os.tmpdir()`，不扫私有目录）；外部等价 oracle 须**显式** `--baseline-module/--dataset/--extra-root`，缺必需输入即退出码 2 如实报错、不静默当绿 |
 | **v0.4.0 批次（2026-10-06…10-09）新增／受影响的隔离验证脚本** | `pnpm verify:v09-03`（需求落地与追踪链，含 PLAN 剥离钉值与 V09-62 卡行负例）、`verify:feature-ledger`（+ `verify:feature-ledger-ui` 真浏览器段）、`verify:delivery-overview`（+ `verify:delivery-overview-ui`）、`verify:work-package`、`verify:host-work-package`、`verify:build-identity`、`verify:v09-04`——逐条断言与读数见 `PROGRESS.md` 对应批次与 `PLAN.md` 对应卡定义。全部走 `mkdtemp` 夹具＋隔离 `TATAI_HOME`＋回环随机端口，**不碰真实项目数据、不占 8787** |
+| **v0.5.0 批次（2026-10-09…10-13）新增／受影响的隔离验证脚本** | `pnpm verify:v09-63`（工作目录与交付候选：登记/指针/接续契约，主开发目录 `<project>:main` 派生）、`verify:v09-65`（写口拒错目标与冻结候选写入拒绝的语义校验，不冒充 OS 沙箱）、`verify:workspace-package`（候选冻结绑定既有构建输入身份、试用提升由宿主实测真实产物）、`verify:runtime-load-fix`（设计页约 5 s 轮询的重读口不再内联阻塞主线程事件循环）、`pnpm exec tsx scripts/verify-v09-37-file-observation.ts`（V09-37 源清单「文件观测」共享，按清单预算逐份现读）、`pnpm exec tsx scripts/verify-v09-69.ts` ／ `verify-v09-69-mcp.ts` ／ `verify-v09-69-sequence.ts`（运行健康只读读口与统一状态模型；`doctor` 的 `runtime` 段与 `runtime_only` 轻量模式；真实读池故障/取消/恢复连续序列反例）、`pnpm exec tsx scripts/verify-v09-70.ts`（+ `scripts/verify-v09-70-ui.py` 真浏览器段；诊断页监看/退避/去重/恢复与脱敏导出）——逐条断言与读数见 `PROGRESS.md` 对应批次与 `PLAN.md` 对应卡定义。全部走 `mkdtemp` 夹具＋隔离 `TATAI_HOME`＋回环随机端口，**不碰真实项目数据、不占 8787** |
 
 各脚本的真实输出与逐条对照写在 `PROGRESS.md` 对应卡号的流水里。
 

diff --git a/docs/getting-started.md b/docs/getting-started.md
@@ -33,7 +33,7 @@
 ## 2. 升级：覆盖安装，没有自动更新
 
 - 塔台没有自动更新。装新版 = 从 [Releases](https://github.com/sannongwangluo/tatai/releases) 下一个新包，覆盖安装。
-- 升级前请正常退出塔台：关闭窗口后，桌面壳会带走在它之后启动的后端并释放 8787 端口。若安装器仍提示进程占用，再核对是否有残留（或该端口被别的进程占着），确认后再继续；不要无差别结束 node 进程——别的 Agent 客户端可能正用着它。
+- 升级前请正常退出塔台：正常关窗通常会回收它启动的后端并释放 8787 端口，但**桌面壳进程本身可能滞留不退**（本版隔离实测：后端已回收、端口已释放，壳窗口 15 秒内未退出），请以实际状态为准。若安装器仍提示进程占用，再核对是否有残留（或该端口被别的进程占着），确认后再继续；不要无差别结束 node 进程——别的 Agent 客户端可能正用着它。若需强制处理，只结束该滞留壳及其自有后端子树。
 - 覆盖安装不删用户数据，卸载也不删：数据不在安装目录里（安装目录运行期只读）。所谓"卸载清干净"清的是程序文件、快捷方式与 HKCU 卸载项。
 - 升级前建议先备份两处（详见第 4 节）：
   1. 全局数据目录（`~/.tatai` 或你的 `TATAI_HOME`）；
